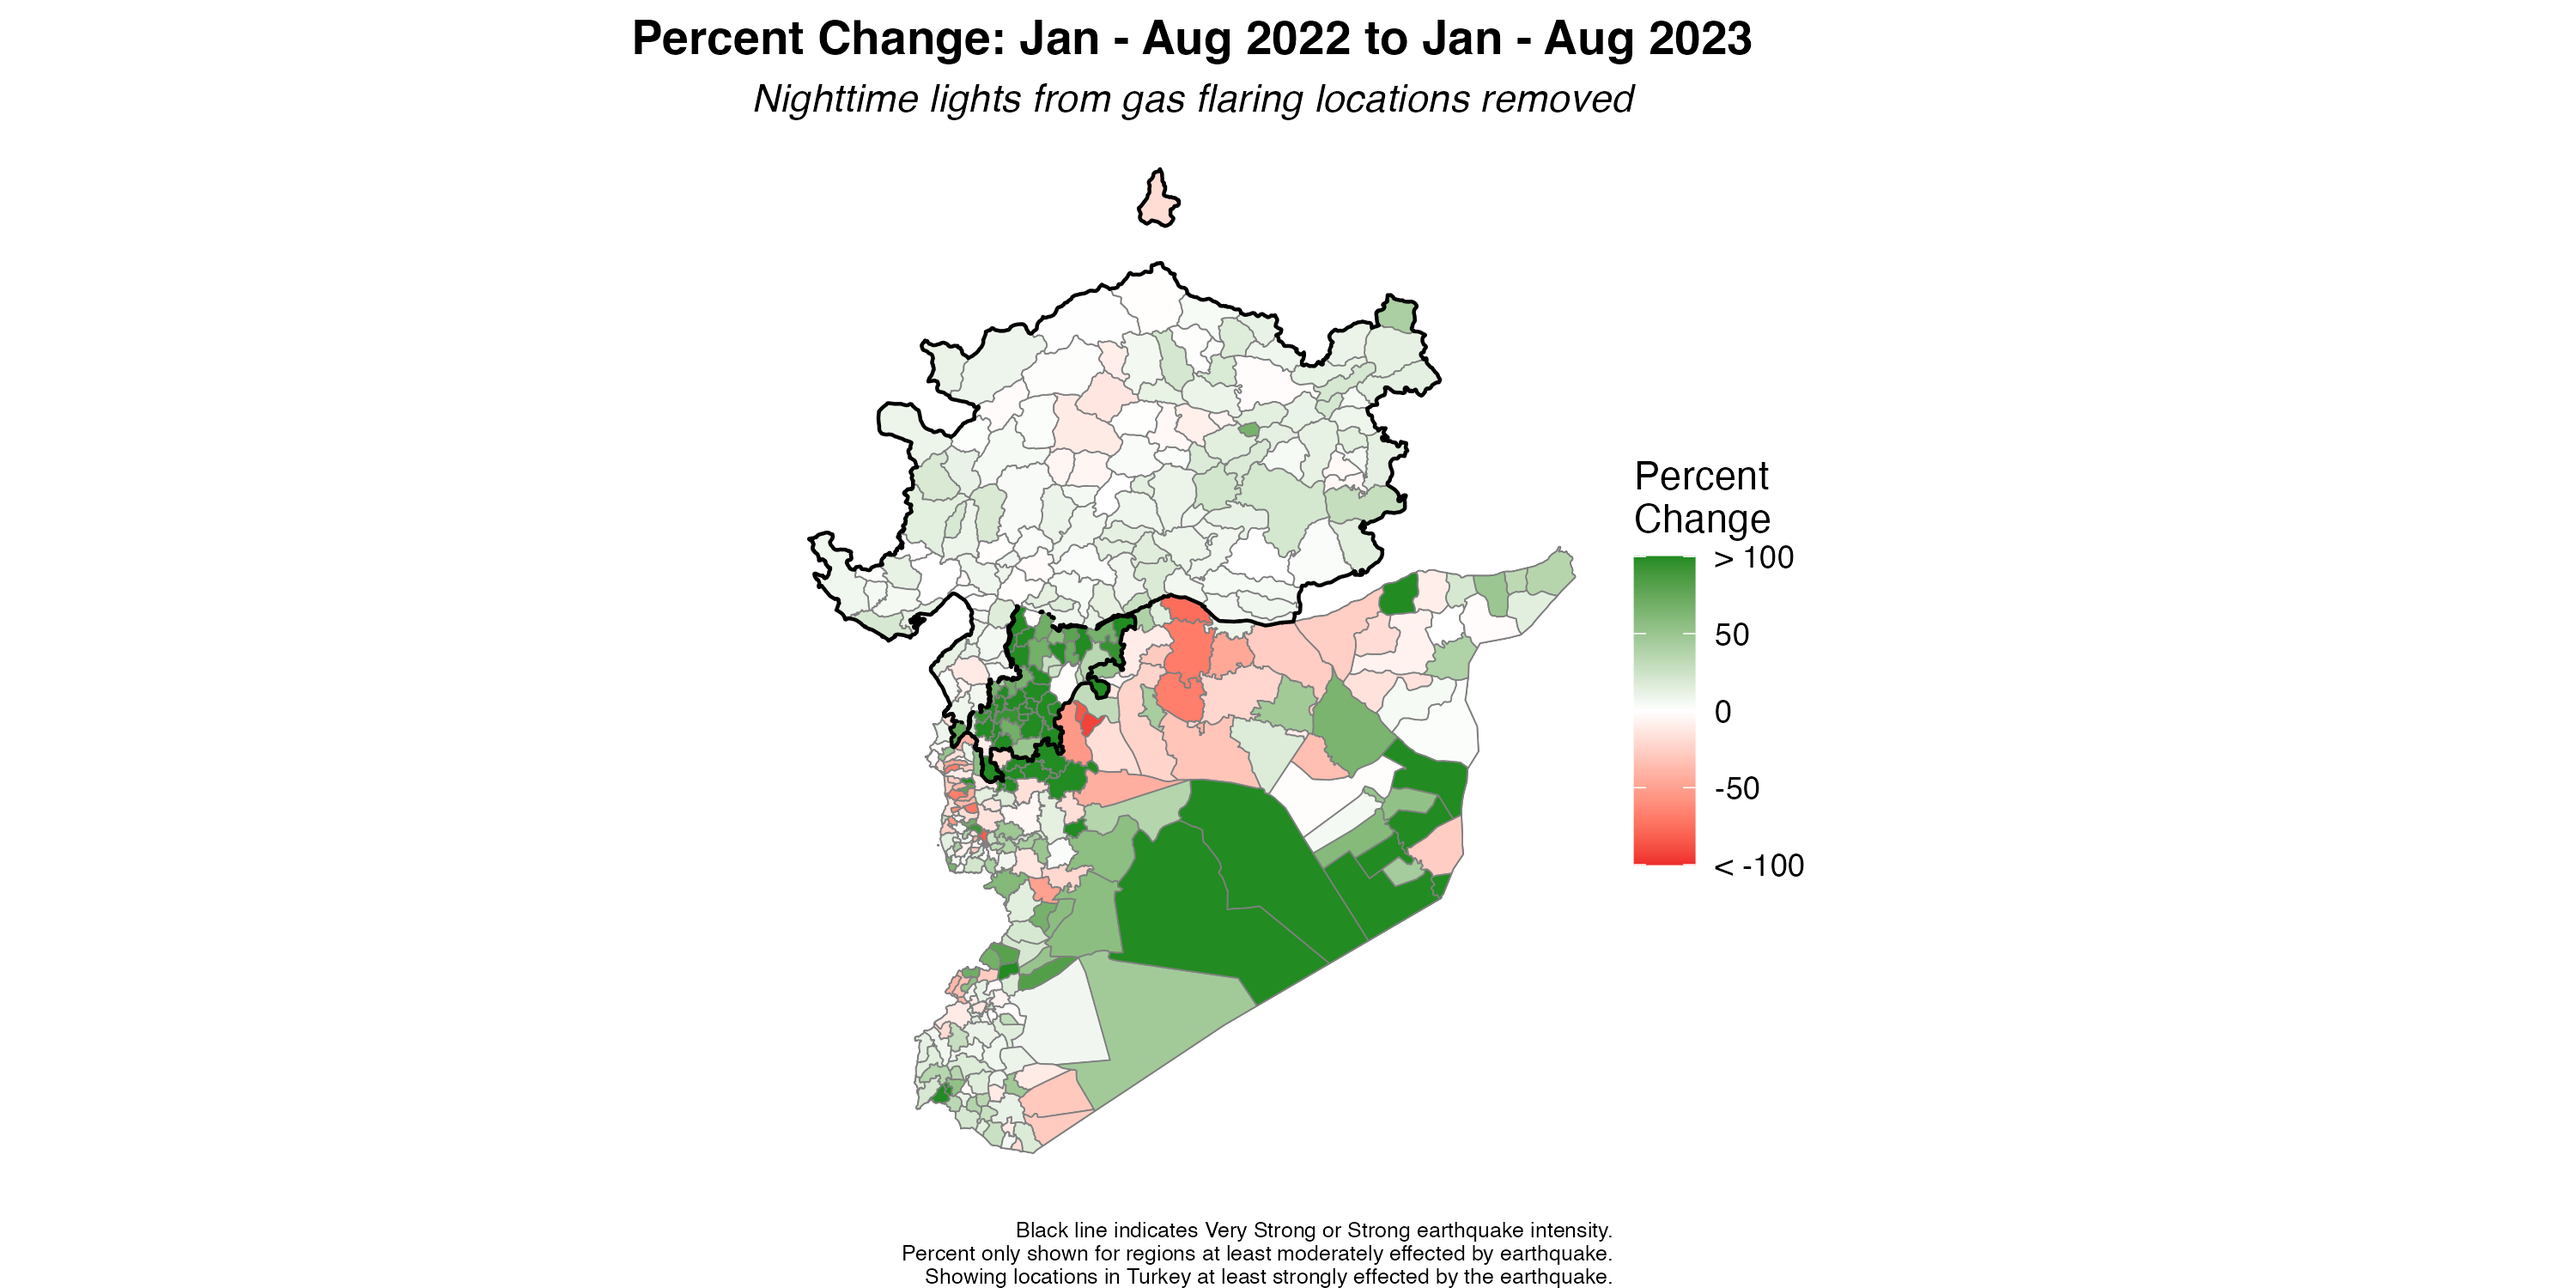
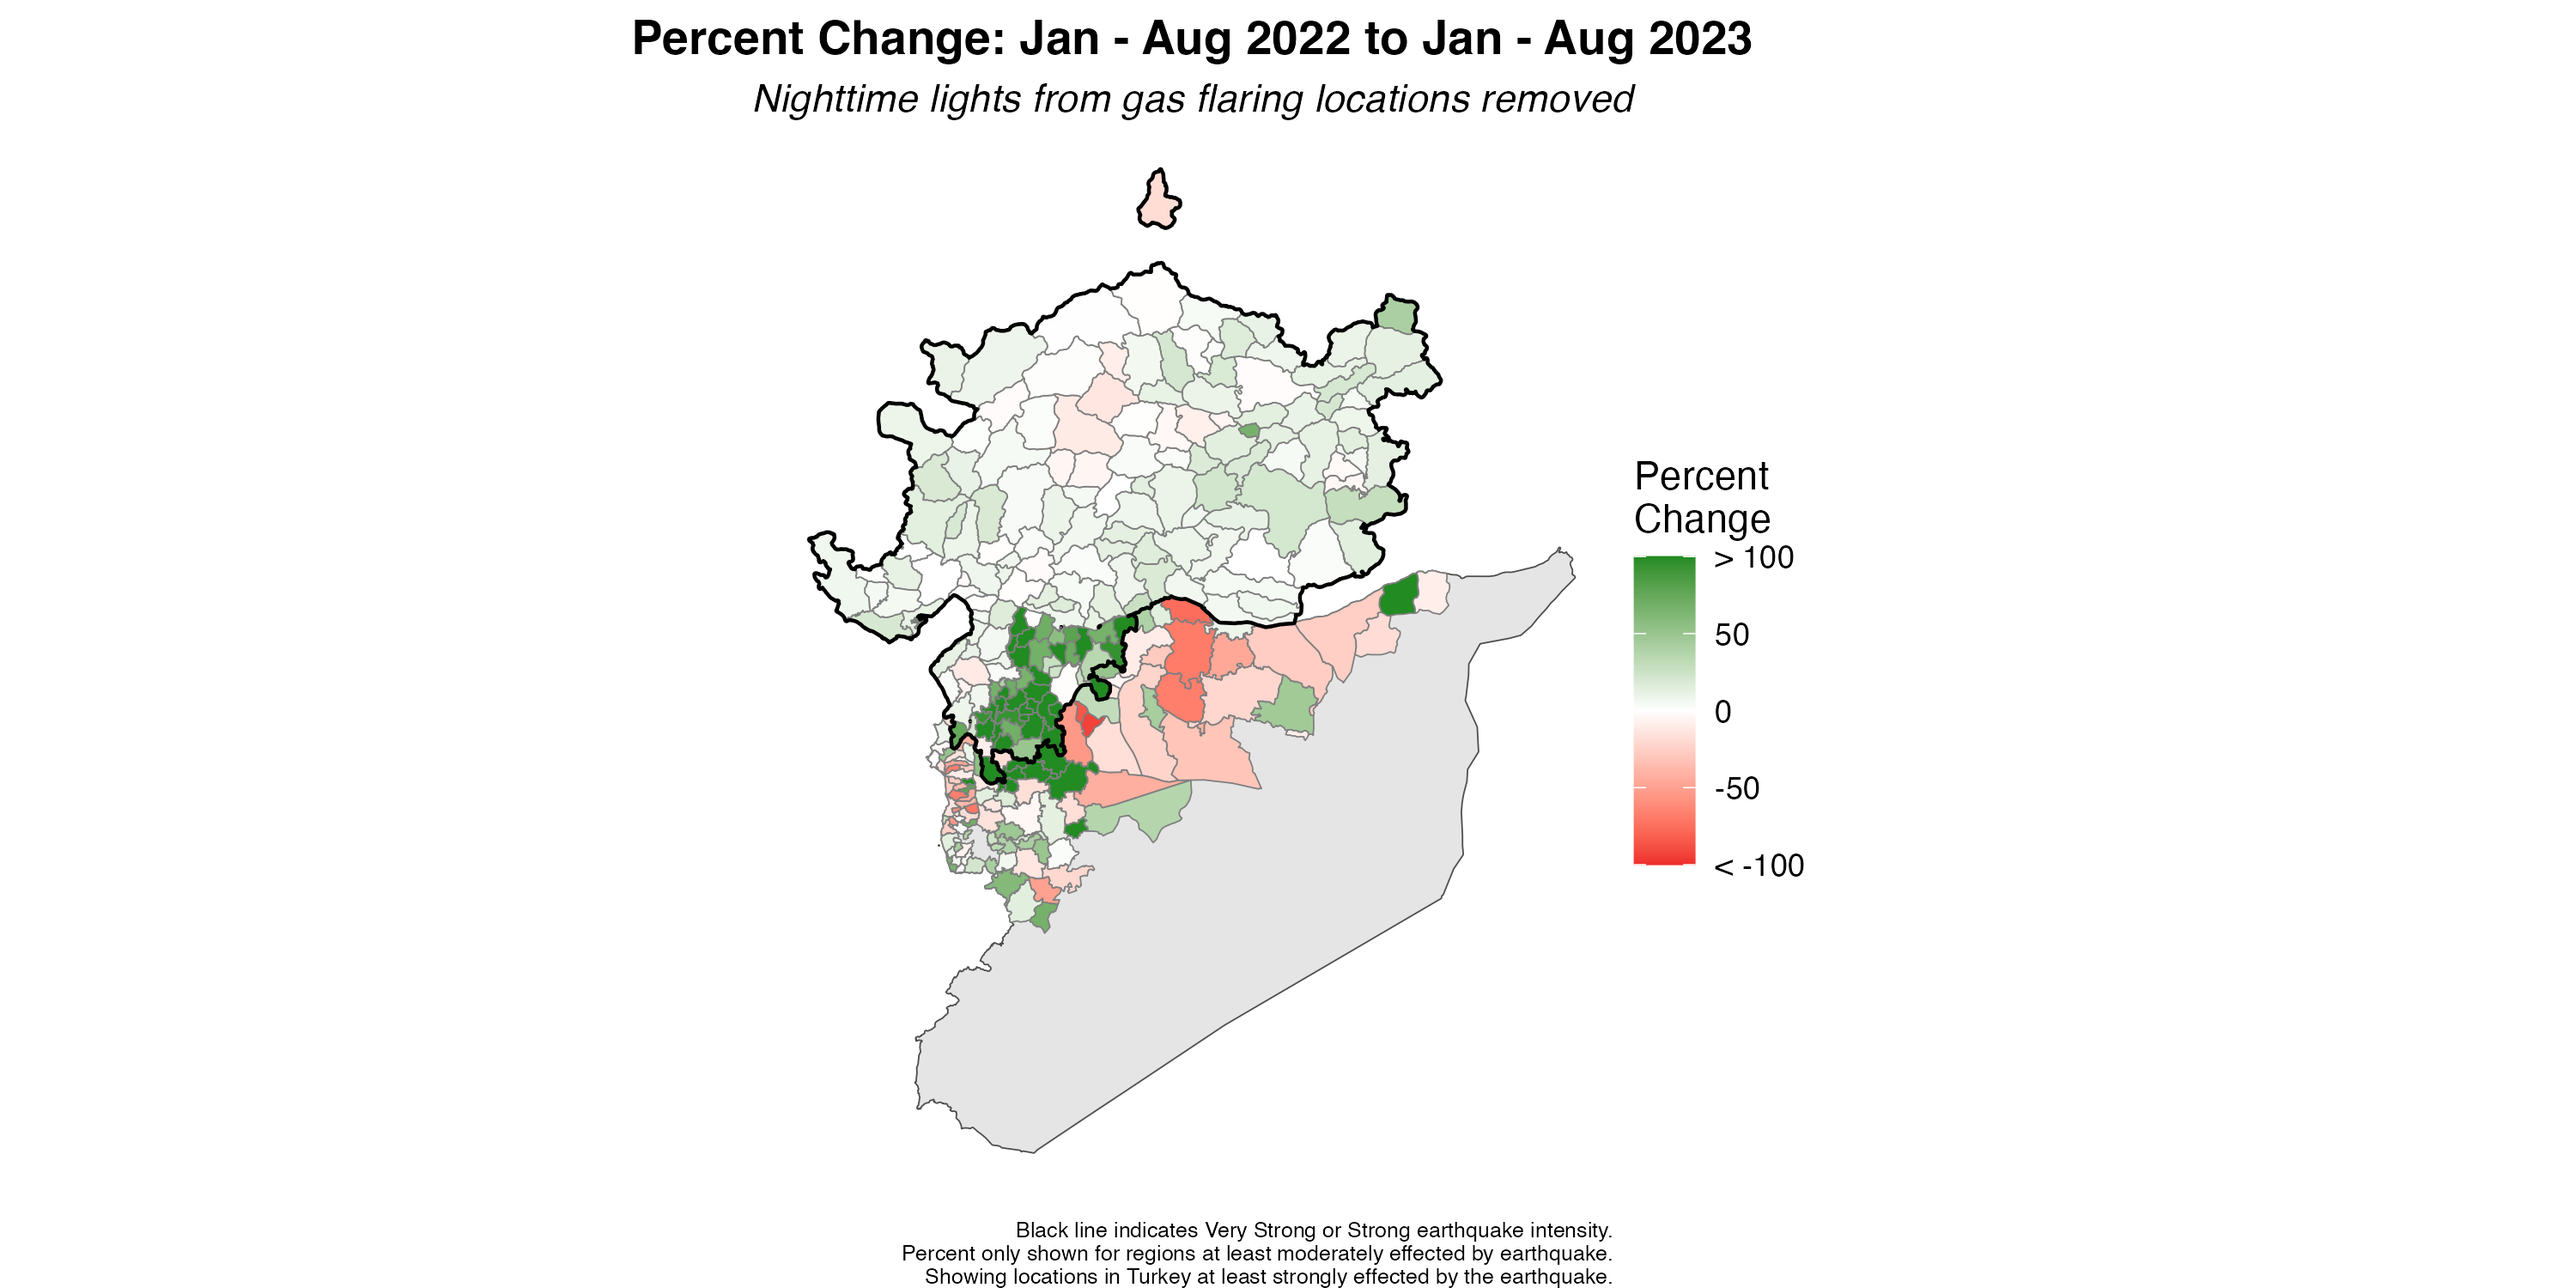
additional map

Changed region(s): [[0.31, 0.2453, 0.62, 0.8893], [0.434, 0.1533, 0.465, 0.184]]

diff --git a/notebooks/ntl-analysis/ntl-update-12-2023.md b/notebooks/ntl-analysis/ntl-update-12-2023.md
@@ -34,6 +34,8 @@ We examine trends in daily nighttime lights from before and after the February 6
 
 ![](../../reports/figures/pchange_ntl_nogf_2022_2023.png)
 
+![](../../reports/figures/pchange_ntl_gf_2022_2023.png)
+
 ![](../../reports/figures/pchange_ntl_monthly.png)
 
 
